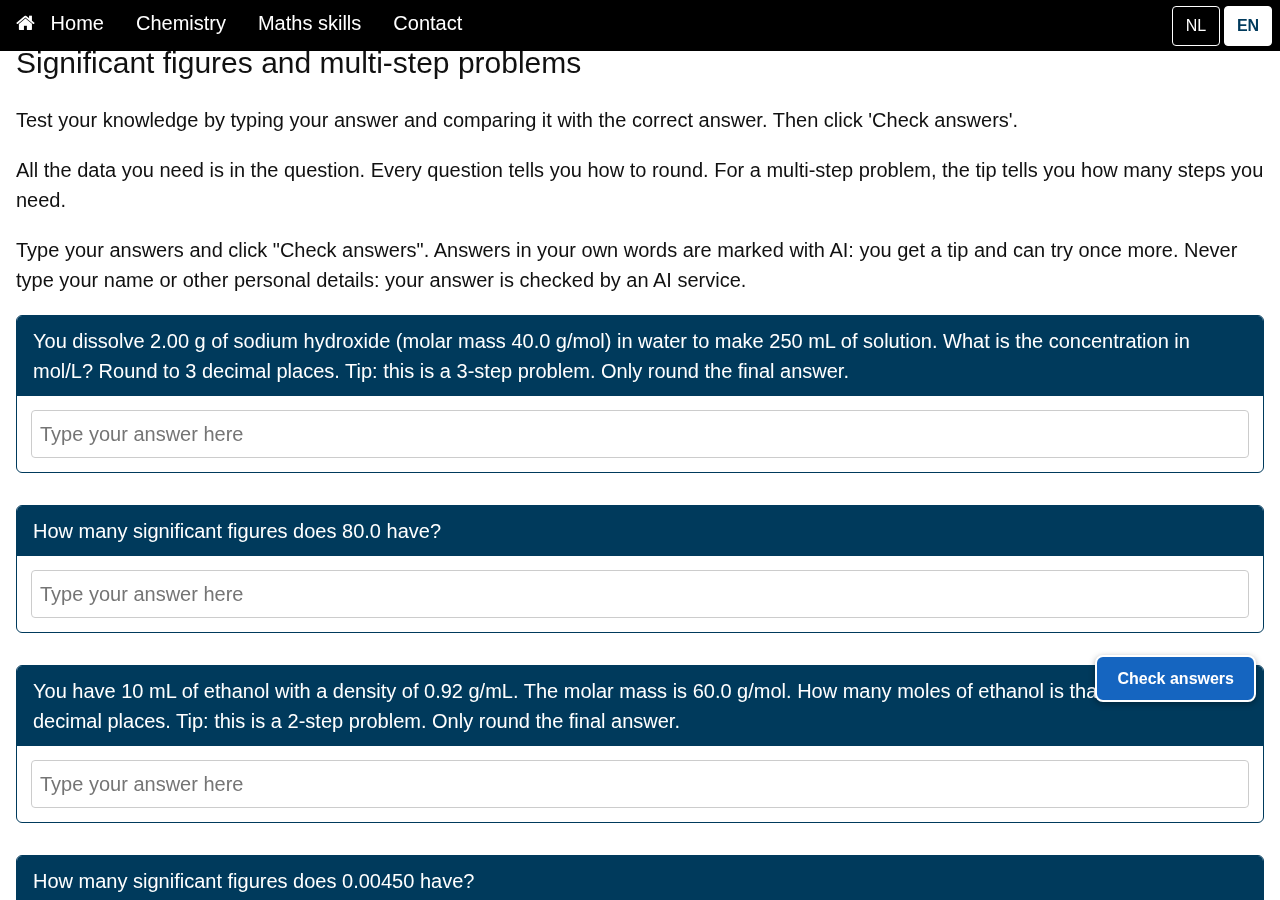
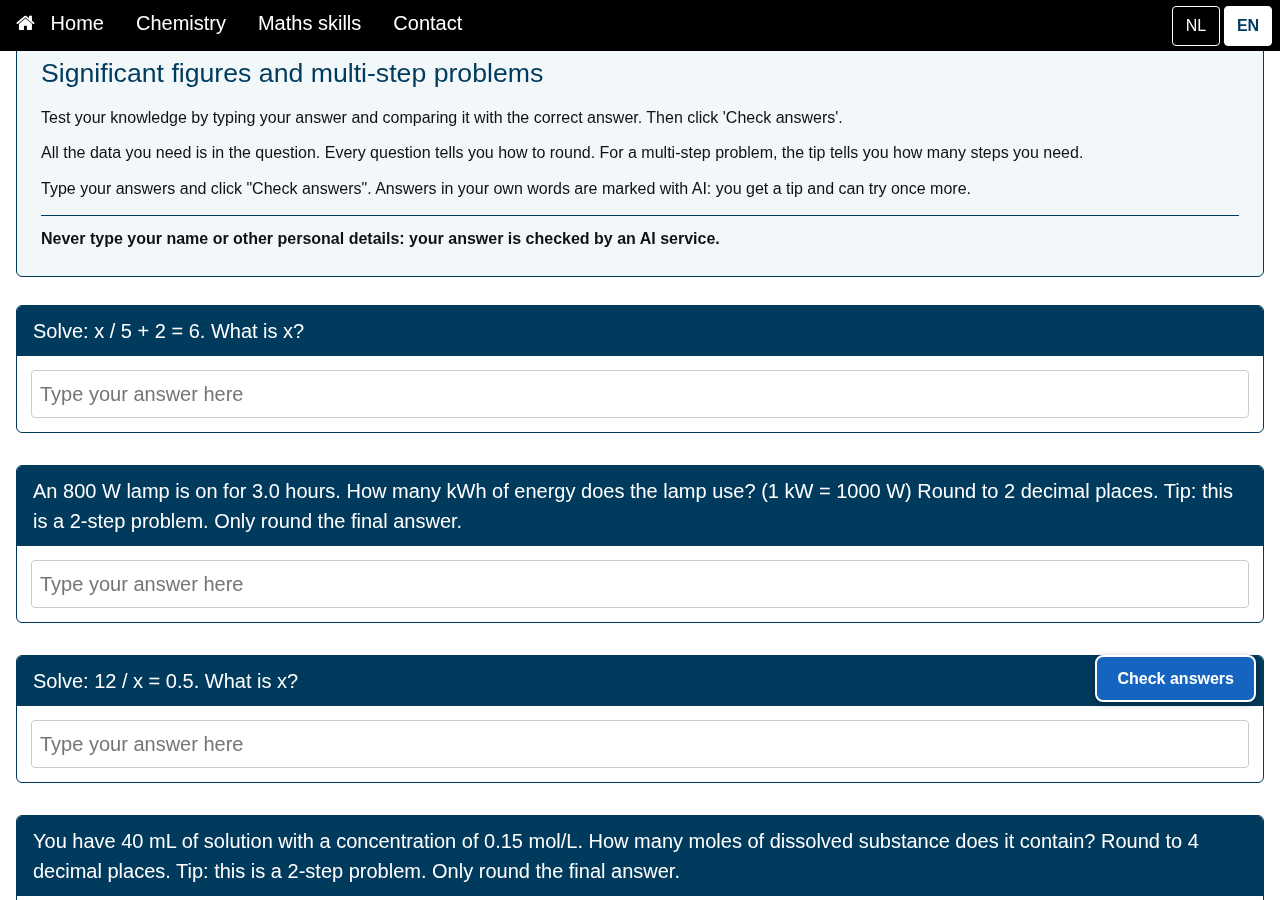
KB-pagina's: kader om titel en uitleg (privacyregel apart); tijdelijke tweak: bij '=' telt alleen het deel na het laatste '=' (kbNaLaatsteIs); tests; cache-bust 20261101c (rollback: tag voor-intro-kader)

Changed region(s): [[0.0, 0.1244, 1.0, 1.0], [0.0, 0.0622, 0.4688, 0.0933]]

diff --git a/ai-nakijken.js b/ai-nakijken.js
@@ -85,11 +85,19 @@
     var vergelijk = document.getElementById('ai-vergelijk');
     if (vergelijk) { vergelijk.parentNode.removeChild(vergelijk); }
     var intro = document.getElementById('ai-intro');
-    if (intro) { intro.hidden = false; return; }
+    if (intro) { intro.hidden = false; var pv = document.getElementById('ai-privacy'); if (pv) { pv.hidden = false; } return; }
+    var tx = function (k, nl) { return window.i18n ? window.i18n.t(k) : nl; };
     intro = document.createElement('p');
     intro.id = 'ai-intro';
-    intro.textContent = window.i18n ? window.i18n.t('ai.intro') : 'Typ je antwoorden en klik op "Controleer antwoorden". Antwoorden in je eigen woorden worden met AI nagekeken: je krijgt dan een tip en mag het nog een keer proberen. Typ nooit je naam of andere persoonlijke gegevens: je antwoord wordt door een AI-dienst nagekeken.';
+    intro.textContent = tx('ai.intro', 'Typ je antwoorden en klik op "Controleer antwoorden". Antwoorden in je eigen woorden worden met AI nagekeken: je krijgt dan een tip en mag het nog een keer proberen.');
+    var privacy = document.createElement('p');
+    privacy.id = 'ai-privacy';
+    privacy.className = 'kb-privacy';
+    privacy.textContent = tx('ai.privacy', 'Typ nooit je naam of andere persoonlijke gegevens: je antwoord wordt door een AI-dienst nagekeken.');
+    var kader = document.getElementById('kb-intro');
+    if (kader) { kader.appendChild(intro); kader.appendChild(privacy); return; }
     var eerste = vraagKnoppen[0].parentNode;
     eerste.parentNode.insertBefore(intro, eerste);
+    eerste.parentNode.insertBefore(privacy, eerste);
   });
 })();

diff --git a/school.js b/school.js
@@ -252,10 +252,18 @@ function kbBeoordeelBox(ingevuld, box) {
   return r;
 }
 
+/* TIJDELIJKE TWEAK (alleen EN-pilot): staat er een "=" in het antwoord ("8x2.5=20", "x = 20", "8 x 2,5 = 20 g"), dan telt alleen
+   wat na het laatste "=" staat (getrimd). Het deel ervoor (de berekening) wordt dus niet beoordeeld; "20=8x2.5" wordt daarom
+   als "8x2.5" gelezen en blijft fout bij een verwacht antwoord 20. Alleen in het lokale getallen-pad; het AI-pad krijgt de volledige tekst. */
+function kbNaLaatsteIs(ingevuld) {
+  var t = String(ingevuld), k = t.lastIndexOf('=');
+  return k === -1 ? t : t.slice(k + 1).trim();
+}
+
 /* Vergelijkt wat de leerling typte met een verwacht getal v = kbGetal(...): komma of punt, eenheid mag ontbreken,
    schrijfwijze van machten van 10 maakt niet uit. Zelfde waarde maar andere afronding of eenheid = 'half'. */
 function kbVergelijkGetal(ingevuld, v) {
-  var i = kbGetal(String(ingevuld).replace(/^\s*[A-Za-z\u0370-\u03ff][A-Za-z0-9_]{0,3}\s*=\s*/, ''));
+  var i = kbGetal(kbNaLaatsteIs(ingevuld).replace(/^\s*[A-Za-z\u0370-\u03ff][A-Za-z0-9_]{0,3}\s*=\s*/, ''));
   if (i && i.getal === v.getal && (i.eenheid === '' || v.eenheid === '' || i.eenheid.replace(/x/g, '') === v.eenheid.replace(/x/g, ''))) { return { oordeel: 'goed', hint: '', numeriek: true }; }
   if (i && i.getal === v.getal) { return { oordeel: 'half', hint: T('kb.hint_eenheid'), numeriek: true }; }
   if (i && i.getal !== v.getal && Math.abs(kbWaarde(i.getal) - kbWaarde(v.getal)) < 1e-12 * Math.max(1, Math.abs(kbWaarde(v.getal))) && v.getal.indexOf('/') === -1) {

diff --git a/index.html b/index.html
@@ -8,11 +8,11 @@
     <link rel="stylesheet" href="https://www.w3schools.com/w3css/4/w3.css">
     <link rel="stylesheet" href="https://www.w3schools.com/lib/w3-theme-black.css">
     <link rel="stylesheet" href="https://cdnjs.cloudflare.com/ajax/libs/font-awesome/4.7.0/css/font-awesome.min.css">
-    <link rel="stylesheet" href="123school.css?v=20261101b">
+    <link rel="stylesheet" href="123school.css?v=20261101c">
     <link rel="stylesheet" href="https://maxcdn.bootstrapcdn.com/bootstrap/3.3.7/css/bootstrap.min.css">
     <script src="https://ajax.googleapis.com/ajax/libs/jquery/3.3.1/jquery.min.js"></script>
     <script src="https://maxcdn.bootstrapcdn.com/bootstrap/3.3.7/js/bootstrap.min.js"></script>
-    <script src="i18n.js?v=20261101b"></script>
+    <script src="i18n.js?v=20261101c"></script>
 </head>
 <body class="home" id="myPage" data-pagina="index">
 <!-- Alle tekst komt uit lang/<taal>/ui.json (i18n.js): data-i18n="sleutel" -->
@@ -106,6 +106,6 @@
 </div>
 
 <div id="voet"></div>
-<script src="school.js?v=20261101b"></script>
+<script src="school.js?v=20261101c"></script>
 </body>
 </html>

diff --git a/123school.css b/123school.css
@@ -519,3 +519,36 @@ table { max-width: 100%; }
 
 /* Jaar-aanduiding tussen haakjes (EN): kleiner dan de kop, minimaal 10 pt, zwart, niet grijs */
 .jaar-klein { font-size: 14px; color: #111111; }
+
+/* ===== KB-pagina: kader om titel en uitleg boven de vragen (rustig: Arial, #111111, kop #003A5C, kader 1,3 pt = 1,75 px) ===== */
+.kb-intro {
+  border: 1.3pt solid #003A5C;
+  border-radius: 6px;
+  background-color: #F2F7FA;
+  padding: 18px 24px 14px 24px;
+  margin: 8px 0 28px 0;
+  font-family: Arial, Helvetica, sans-serif;
+  font-size: 12pt;
+  line-height: 1.6;
+  color: #111111;
+}
+.kb-intro h2 {
+  font-family: Arial, Helvetica, sans-serif;
+  font-size: 20pt;
+  font-weight: 400;
+  line-height: 1.25;
+  color: #003A5C;
+  margin: 0 0 14px 0;
+  padding: 0;
+}
+.kb-intro p { font-size: 12pt; color: #111111; margin: 0 0 10px 0; }
+.kb-intro p.kb-privacy {
+  font-weight: 700;
+  margin-top: 14px;
+  padding-top: 10px;
+  border-top: 1px solid #003A5C;
+}
+@media (max-width: 600px) {
+  .kb-intro { padding: 14px 16px 10px 16px; margin: 6px 0 22px 0; }
+  .kb-intro h2 { font-size: 17pt; }
+}

diff --git a/rv3h-significante-cijfers-stappen-KB.html b/rv3h-significante-cijfers-stappen-KB.html
@@ -8,8 +8,8 @@
 <link rel="stylesheet" href="https://www.w3schools.com/w3css/4/w3.css">
 <link rel="stylesheet" href="https://www.w3schools.com/lib/w3-theme-black.css">
 <link rel="stylesheet" href="https://cdnjs.cloudflare.com/ajax/libs/font-awesome/4.7.0/css/font-awesome.min.css">
-<link rel="stylesheet" href="123school.css?v=20261101b">
-<script src="i18n.js?v=20261101b"></script>
+<link rel="stylesheet" href="123school.css?v=20261101c">
+<script src="i18n.js?v=20261101c"></script>
 </head>
 <body id="myPage" data-pagina="kb" data-inhoud="rv3h-significante-cijfers-stappen-KB">
 <!-- Alle tekst komt uit lang/<taal>/ui.json en lang/<taal>/rv3h-significante-cijfers-stappen-KB.json (i18n.js) -->
@@ -22,7 +22,7 @@
 </div>
 <div id="voet"></div>
 
-<script src="school.js?v=20261101b"></script>
-<script src="ai-nakijken.js?v=20261101b" defer></script>
+<script src="school.js?v=20261101c"></script>
+<script src="ai-nakijken.js?v=20261101c" defer></script>
 </body>
 </html>

diff --git a/sk3t-stoffen-KB.html b/sk3t-stoffen-KB.html
@@ -8,8 +8,8 @@
 <link rel="stylesheet" href="https://www.w3schools.com/w3css/4/w3.css">
 <link rel="stylesheet" href="https://www.w3schools.com/lib/w3-theme-black.css">
 <link rel="stylesheet" href="https://cdnjs.cloudflare.com/ajax/libs/font-awesome/4.7.0/css/font-awesome.min.css">
-<link rel="stylesheet" href="123school.css?v=20261101b">
-<script src="i18n.js?v=20261101b"></script>
+<link rel="stylesheet" href="123school.css?v=20261101c">
+<script src="i18n.js?v=20261101c"></script>
 </head>
 <body id="myPage" data-pagina="kb" data-inhoud="sk3t-stoffen-KB">
 <!-- Alle tekst komt uit lang/<taal>/ui.json en lang/<taal>/sk3t-stoffen-KB.json (i18n.js) -->
@@ -23,7 +23,7 @@
 </div>
 <div id="voet"></div>
 
-<script src="school.js?v=20261101b"></script>
-<script src="ai-nakijken.js?v=20261101b" defer></script>
+<script src="school.js?v=20261101c"></script>
+<script src="ai-nakijken.js?v=20261101c" defer></script>
 </body>
 </html>

diff --git a/sk3t-stoffen-MP.html b/sk3t-stoffen-MP.html
@@ -8,8 +8,8 @@
 <link rel="stylesheet" href="https://www.w3schools.com/w3css/4/w3.css">
 <link rel="stylesheet" href="https://www.w3schools.com/lib/w3-theme-black.css">
 <link rel="stylesheet" href="https://cdnjs.cloudflare.com/ajax/libs/font-awesome/4.7.0/css/font-awesome.min.css">
-<link rel="stylesheet" href="123school.css?v=20261101b">
-<script src="i18n.js?v=20261101b"></script>
+<link rel="stylesheet" href="123school.css?v=20261101c">
+<script src="i18n.js?v=20261101c"></script>
 </head>
 <body id="myPage" data-pagina="mp" data-inhoud="sk3t-stoffen-MP">
 <div id="navbar"></div>
@@ -24,6 +24,6 @@
 </div>
 <div id="voet"></div>
 
-<script src="school.js?v=20261101b"></script>
+<script src="school.js?v=20261101c"></script>
 </body>
 </html>

diff --git a/i18n.js b/i18n.js
@@ -121,7 +121,7 @@
   /* ---------- KB-pagina: precies dezelfde opbouw als de handgeschreven pagina's, zodat school.js ongewijzigd werkt ---------- */
   function bouwKB(d) {
     var c = document.getElementById('inhoud');
-    var h = '<h2>' + d.heading + '</h2>' + (d.intro || []).map(function (p) { return '<p>' + p + '</p>'; }).join('');
+    var h = '<div class="kb-intro" id="kb-intro"><h2>' + d.heading + '</h2>' + (d.intro || []).map(function (p) { return '<p>' + p + '</p>'; }).join('') + '</div>';
     d.questions.forEach(function (q, i) {
       var id = 'Demo' + (i + 1);
       var label = (t('kb.jouw_antwoord_op') + ' ' + alsTekst(q.q)).replace(/"/g, '&quot;');

diff --git a/tests/test_pilot.py b/tests/test_pilot.py
@@ -96,6 +96,53 @@ with sync_playwright() as p:
         check(f'[nl] kbNormaal("{tekst}") = {verwacht} (ongewijzigd gedrag)', r == verwacht, r)
     ctx.close()
 
+    # 2b. Tijdelijke tweak: bij een "=" telt alleen wat na het laatste "=" staat (kbNaLaatsteIs in school.js)
+    GOED = ('Correct', 'Goed'); FOUT = ('Not correct', 'Niet goed')
+    for taal, vraag, gevallen in [
+        ('en', 'x / 8 = 2.5', [('20', GOED), ('8x2.5=20', GOED), ('8 x 2.5 = 20', GOED), ('8*2.5=20', GOED), ('8 \u00d7 2.5 = 20', GOED), ('x = 20', GOED), ('x=20', GOED),
+                               ('2.5 x 8 = 20.0', ('Nearly',)), ('8x2.5=21', FOUT), ('20=8x2.5', FOUT), ('8x2.5=', FOUT), ('8x2.5', FOUT), ('=', FOUT)]),
+        ('nl', 'x / 8 = 2,5', [('20', GOED), ('8x2,5=20', GOED), ('8 \u00d7 2,5 = 20', GOED), ('8 * 2,5 = 20', GOED), ('x = 20', GOED), ('8x2,5=21', FOUT), ('20=8x2,5', FOUT)])]:
+        ctx, page, errs, vz = open_pagina(b, base, 'rv3h-significante-cijfers-stappen-KB', taal, mock='fout')
+        for txt, want in gevallen:
+            try:
+                uit, it = antwoord_en_controleer(page, vraag, txt)
+            except AssertionError as e:
+                check(f'[{taal}] vraag {vraag!r} gevonden', False, e); break
+            check(f'[{taal}] "{txt}" bij {vraag} -> {want[0]}', any(m in uit for m in want), uit)
+        check(f'[{taal}] "=": geen JS-fouten', not errs, errs); ctx.close()
+    ctx, page, errs, vz = open_pagina(b, base, 'rv3h-significante-cijfers-stappen-KB', 'en', mock='fout')
+    for txt, want in [('rho = 2.70 g/cm3', 'goed'), ('m / V = 2.70 g/cm3', 'goed'), ('2.70 g/cm3', 'goed'), ('2.70 g', 'goed'), ('3.70 g/cm3', 'fout')]:
+        r = page.evaluate('(t)=>{var v=kbGetal("2.70 g/cm3"); return kbVergelijkGetal(t, v).oordeel;}', txt)
+        r = {'goed': 'goed', 'half': 'half', 'fout': 'fout'}[r]
+        check(f'[en] kbVergelijkGetal("{txt}", 2.70 g/cm3) = {want}', r == want or (txt == '2.70 g' and r in ('goed', 'half')), r)
+    for txt, want in [('20', '20'), ('8x2.5=20', '20'), ('a = b = 20 g', '20 g'), ('x = ', ''), ('abc', 'abc'), ('20=8x2.5', '8x2.5')]:
+        r = page.evaluate('(t)=>kbNaLaatsteIs(t)', txt)
+        check(f'[en] kbNaLaatsteIs("{txt}") = "{want}"', r == want, r)
+    ctx.close()
+
+    # 2c. Kader om titel en uitleg op KB-pagina's (NL en EN, desktop en 390 px)
+    for pg in ('sk3t-stoffen-KB', 'rv3h-significante-cijfers-stappen-KB'):
+        for taal in ('en', 'nl'):
+            for naam, size in (('390', {'width': 390, 'height': 800}), ('1280', {'width': 1280, 'height': 900})):
+                ctx, page, errs, _ = open_pagina(b, base, pg, taal, size)
+                page.wait_for_timeout(500)
+                d = page.evaluate("""() => { const k = document.getElementById('kb-intro'); if (!k) return null; const cs = getComputedStyle(k), h = getComputedStyle(k.querySelector('h2')), p = k.querySelectorAll('p'), pv = document.getElementById('ai-privacy');
+                  const r = k.getBoundingClientRect(); const vk = document.querySelector('.kb-item, button.vraag-knop').getBoundingClientRect();
+                  return {border: cs.borderTopWidth, kleur: cs.borderTopColor, bg: cs.backgroundColor, font: cs.fontFamily.split(',')[0], h2: h.color, h2font: h.fontFamily.split(',')[0], pcol: [...p].map(x=>getComputedStyle(x).color),
+                          psize: [...p].map(x=>parseFloat(getComputedStyle(x).fontSize)), n: p.length, privacy: !!pv && k.contains(pv), pvbold: pv ? getComputedStyle(pv).fontWeight : '', pad: cs.paddingLeft,
+                          voorVragen: r.bottom <= vk.top, breed: document.documentElement.scrollWidth - document.documentElement.clientWidth, rechts: r.right <= innerWidth, links: r.left >= 0}; }""")
+                lab = f'[{taal} {naam}] {pg}'
+                check(f'{lab}: intro-kader aanwezig', d is not None)
+                if d:
+                    check(f'{lab}: kader 1,3 pt (browser rondt af naar 1 px) #003A5C', d['border'] in ('1px', '1.75px') and d['kleur'] == 'rgb(0, 58, 92)', d)
+                    check(f'{lab}: Arial, tekst #111111, kop #003A5C', d['font'] == 'Arial' and d['h2font'] == 'Arial' and d['h2'] == 'rgb(0, 58, 92)' and all(c == 'rgb(17, 17, 17)' for c in d['pcol']), d)
+                    check(f'{lab}: tekst 12 pt (16 px)', all(abs(s - 16) < 0.1 for s in d['psize']), d['psize'])
+                    check(f'{lab}: privacyregel apart, in het kader, vet', d['privacy'] and int(d['pvbold']) >= 700, d)
+                    check(f'{lab}: kader staat boven de vragen en past in het scherm', d['voorVragen'] and d['rechts'] and d['links'] and d['breed'] <= 0, d)
+                if pg.startswith('rv3h') and taal == 'en':
+                    page.screenshot(path=f'{SCREENS}/intro_kader_{taal}_{naam}.png')
+                check(f'{lab}: kader geen JS-fouten', not errs, errs); ctx.close()
+
     # 3. Tekstvraag lokaal (zonder AI) en AI-aanroep: taal van het verzoek en weergave van de EN-tip
     for taal, vraag, juist in [('en', 'Which unit goes with density', 'g/cm3'), ('nl', 'Welke eenheid hoort bij dichtheid', 'g/cm3')]:
         ctx, page, errs, vz = open_pagina(b, base, 'sk3t-stoffen-KB', taal)

diff --git a/tests/test_nl_parity.py b/tests/test_nl_parity.py
@@ -4,7 +4,7 @@ from common import *
 
 def norm(s): return re.sub(r'\s+', ' ', s or '').strip()
 
-JS_KB = """() => { const o = {title: document.title, h2: document.querySelector('h2').innerHTML.trim(), intro: [...document.querySelectorAll('.w3-container > p')].filter(p=>!p.closest('.antwoord-box') && !p.closest('footer')).map(p=>p.innerHTML.trim()),
+JS_KB = """() => { const o = {title: document.title, h2: document.querySelector('h2').innerHTML.trim(), intro: [[...document.querySelectorAll('.w3-container p')].filter(p=>!p.closest('.antwoord-box') && !p.closest('footer')).map(p=>p.textContent.replace(/\\s+/g,' ').trim()).join(' ')],
   q: [...document.querySelectorAll('button.vraag-knop')].map(b => { const w=b.parentNode; const i=w.querySelector('input'); const box=w.querySelector('.antwoord-box');
    return {q:b.innerHTML.trim(), aria:i.getAttribute('aria-label'), ph:i.getAttribute('placeholder'), box: box.innerHTML.replace(/\\s+/g,' ').trim(), goed: box.getAttribute('data-goed'), cls: box.className, eind: !!box.querySelector('.eindantwoord')}; }),
   zweef: (document.getElementById('zweefknop')||{}).textContent, opn: ([...document.querySelectorAll('a.knop-blauw')].map(a=>a.textContent.trim())), nav:[...document.querySelectorAll('.oefen-wissel a')].filter(a=>!/rv3h/.test(a.getAttribute('href'))).map(a=>a.textContent+'|'+a.getAttribute('href')+'|'+a.getAttribute('aria-current'))};
